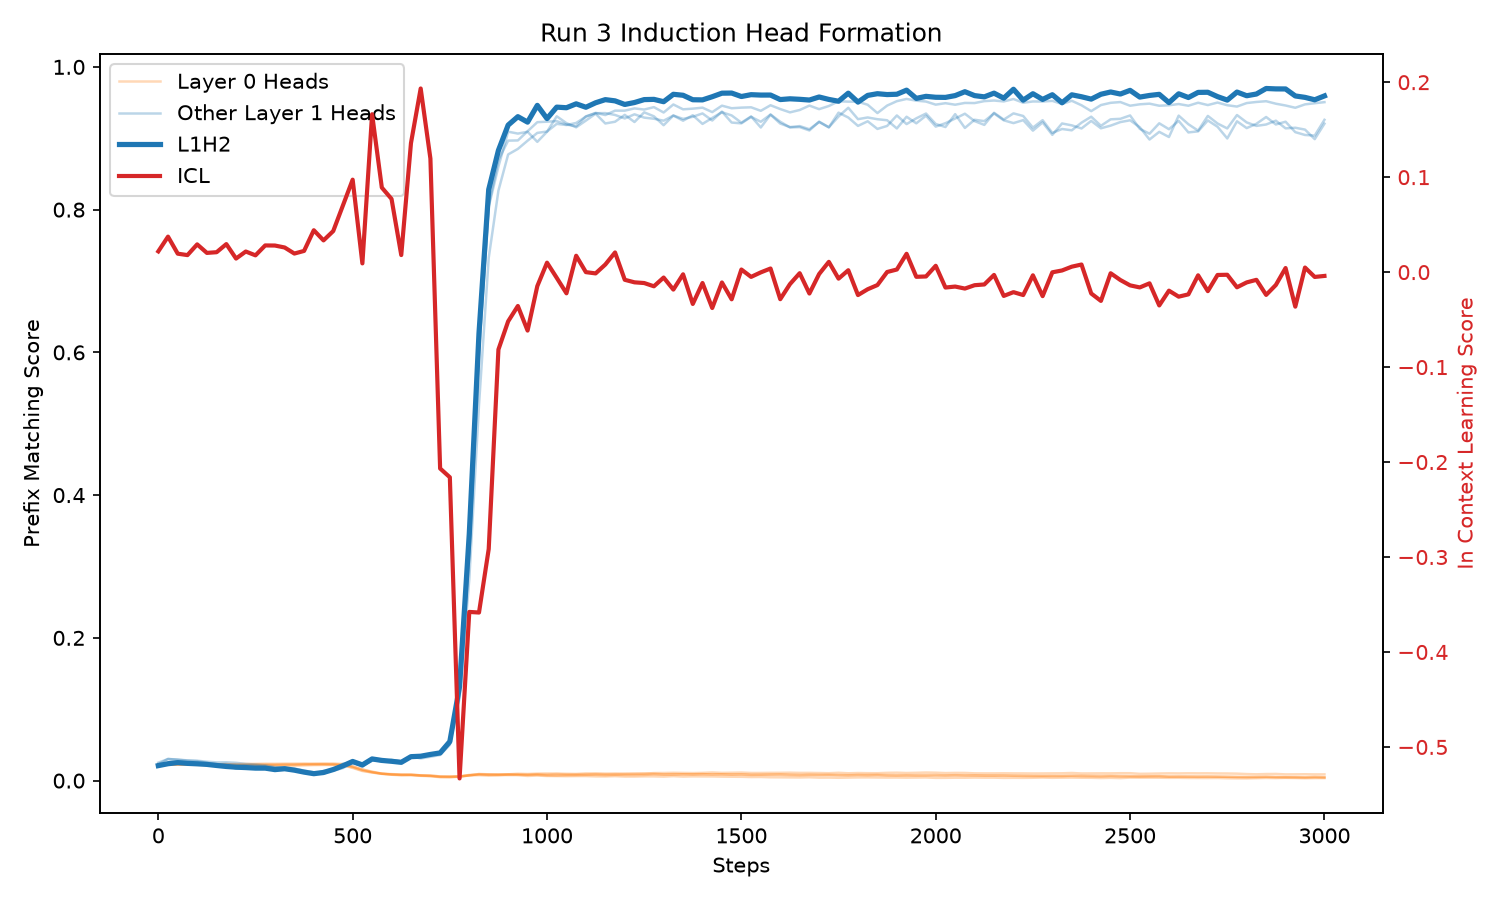
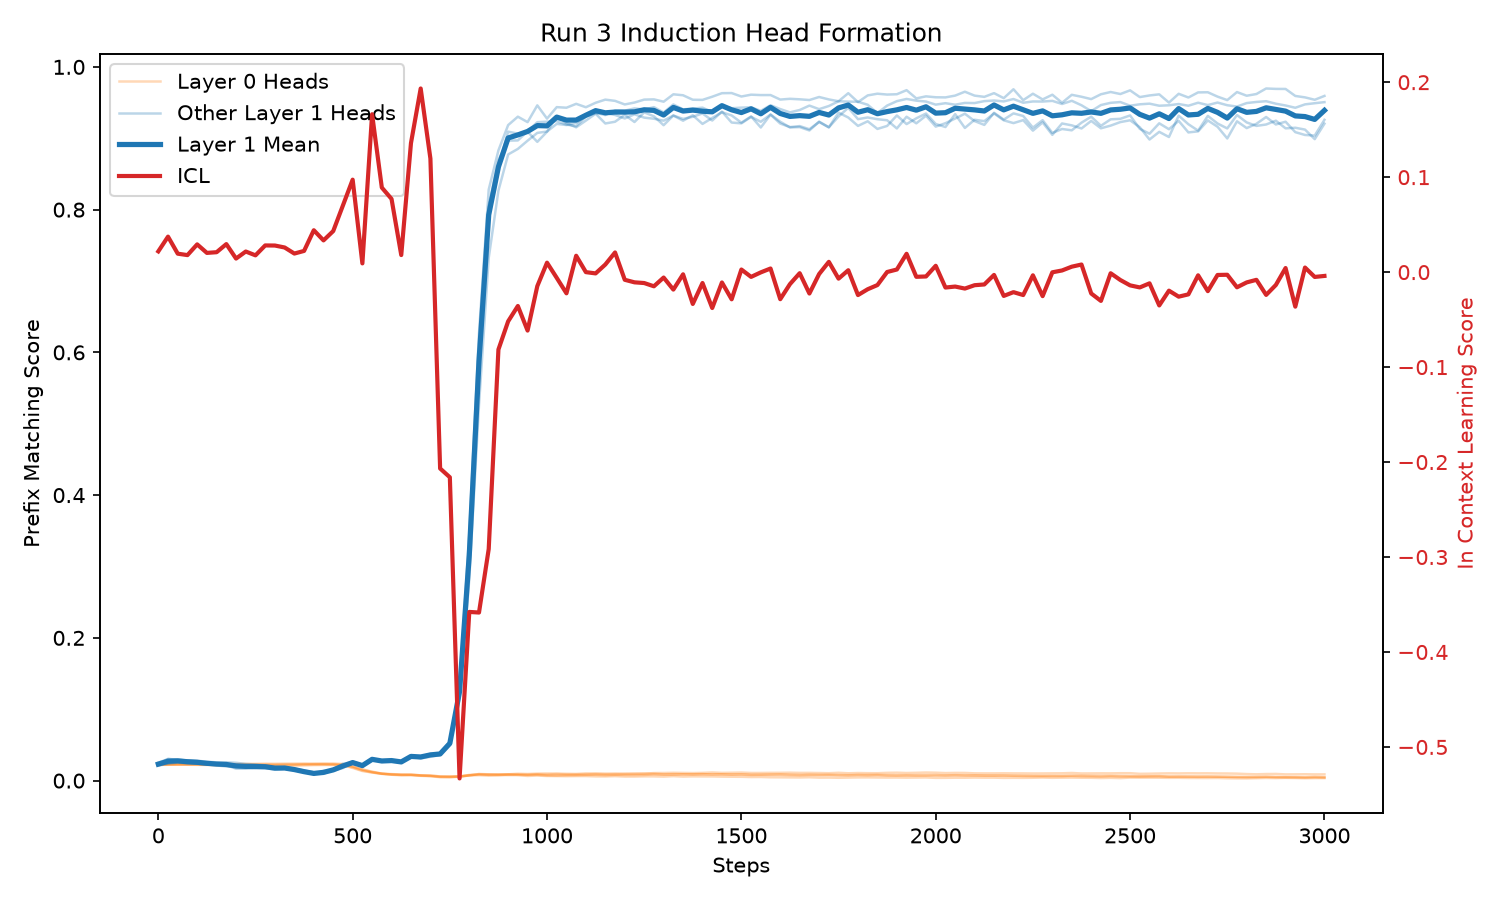
Plot layer-1 mean; all four L1 heads converge

diff --git a/plot.py b/plot.py
@@ -1,5 +1,6 @@
 import json
 from matplotlib import pyplot as plt
+import numpy as np
 
 with open('results/run3_scores.json', 'r') as x:
     results = json.load(x)
@@ -20,16 +21,10 @@ for k, v in sorted(results.items()):
 
 fig, ax1 = plt.subplots(figsize=(10, 6))
 
+layer_1_scores = []
 for head, scores in head_scores.items():
-    if head == "L1H2":
-        ax1.plot(
-            steps, scores,
-            color='tab:blue',
-            linewidth=2.5,
-            label=head,
-            zorder=3
-        )
-    elif head.startswith("L1"):
+    if head.startswith("L1"):
+        layer_1_scores.append(scores)
         ax1.plot(
             steps, scores,
             color='tab:blue',
@@ -44,7 +39,15 @@ for head, scores in head_scores.items():
             alpha=0.3,
             linewidth=1.2,
             label="Layer 0 Heads" if head == "L0H0" else None
-            )
+        )
+layer_1_mean = np.mean(layer_1_scores, axis=0)
+ax1.plot(
+    steps, layer_1_mean, 
+    color='tab:blue',
+    linewidth=2.5,
+    label="Layer 1 Mean",
+    zorder=3
+)
 
 ax1.set_xlabel('Steps')
 ax1.set_ylabel('Prefix Matching Score')
